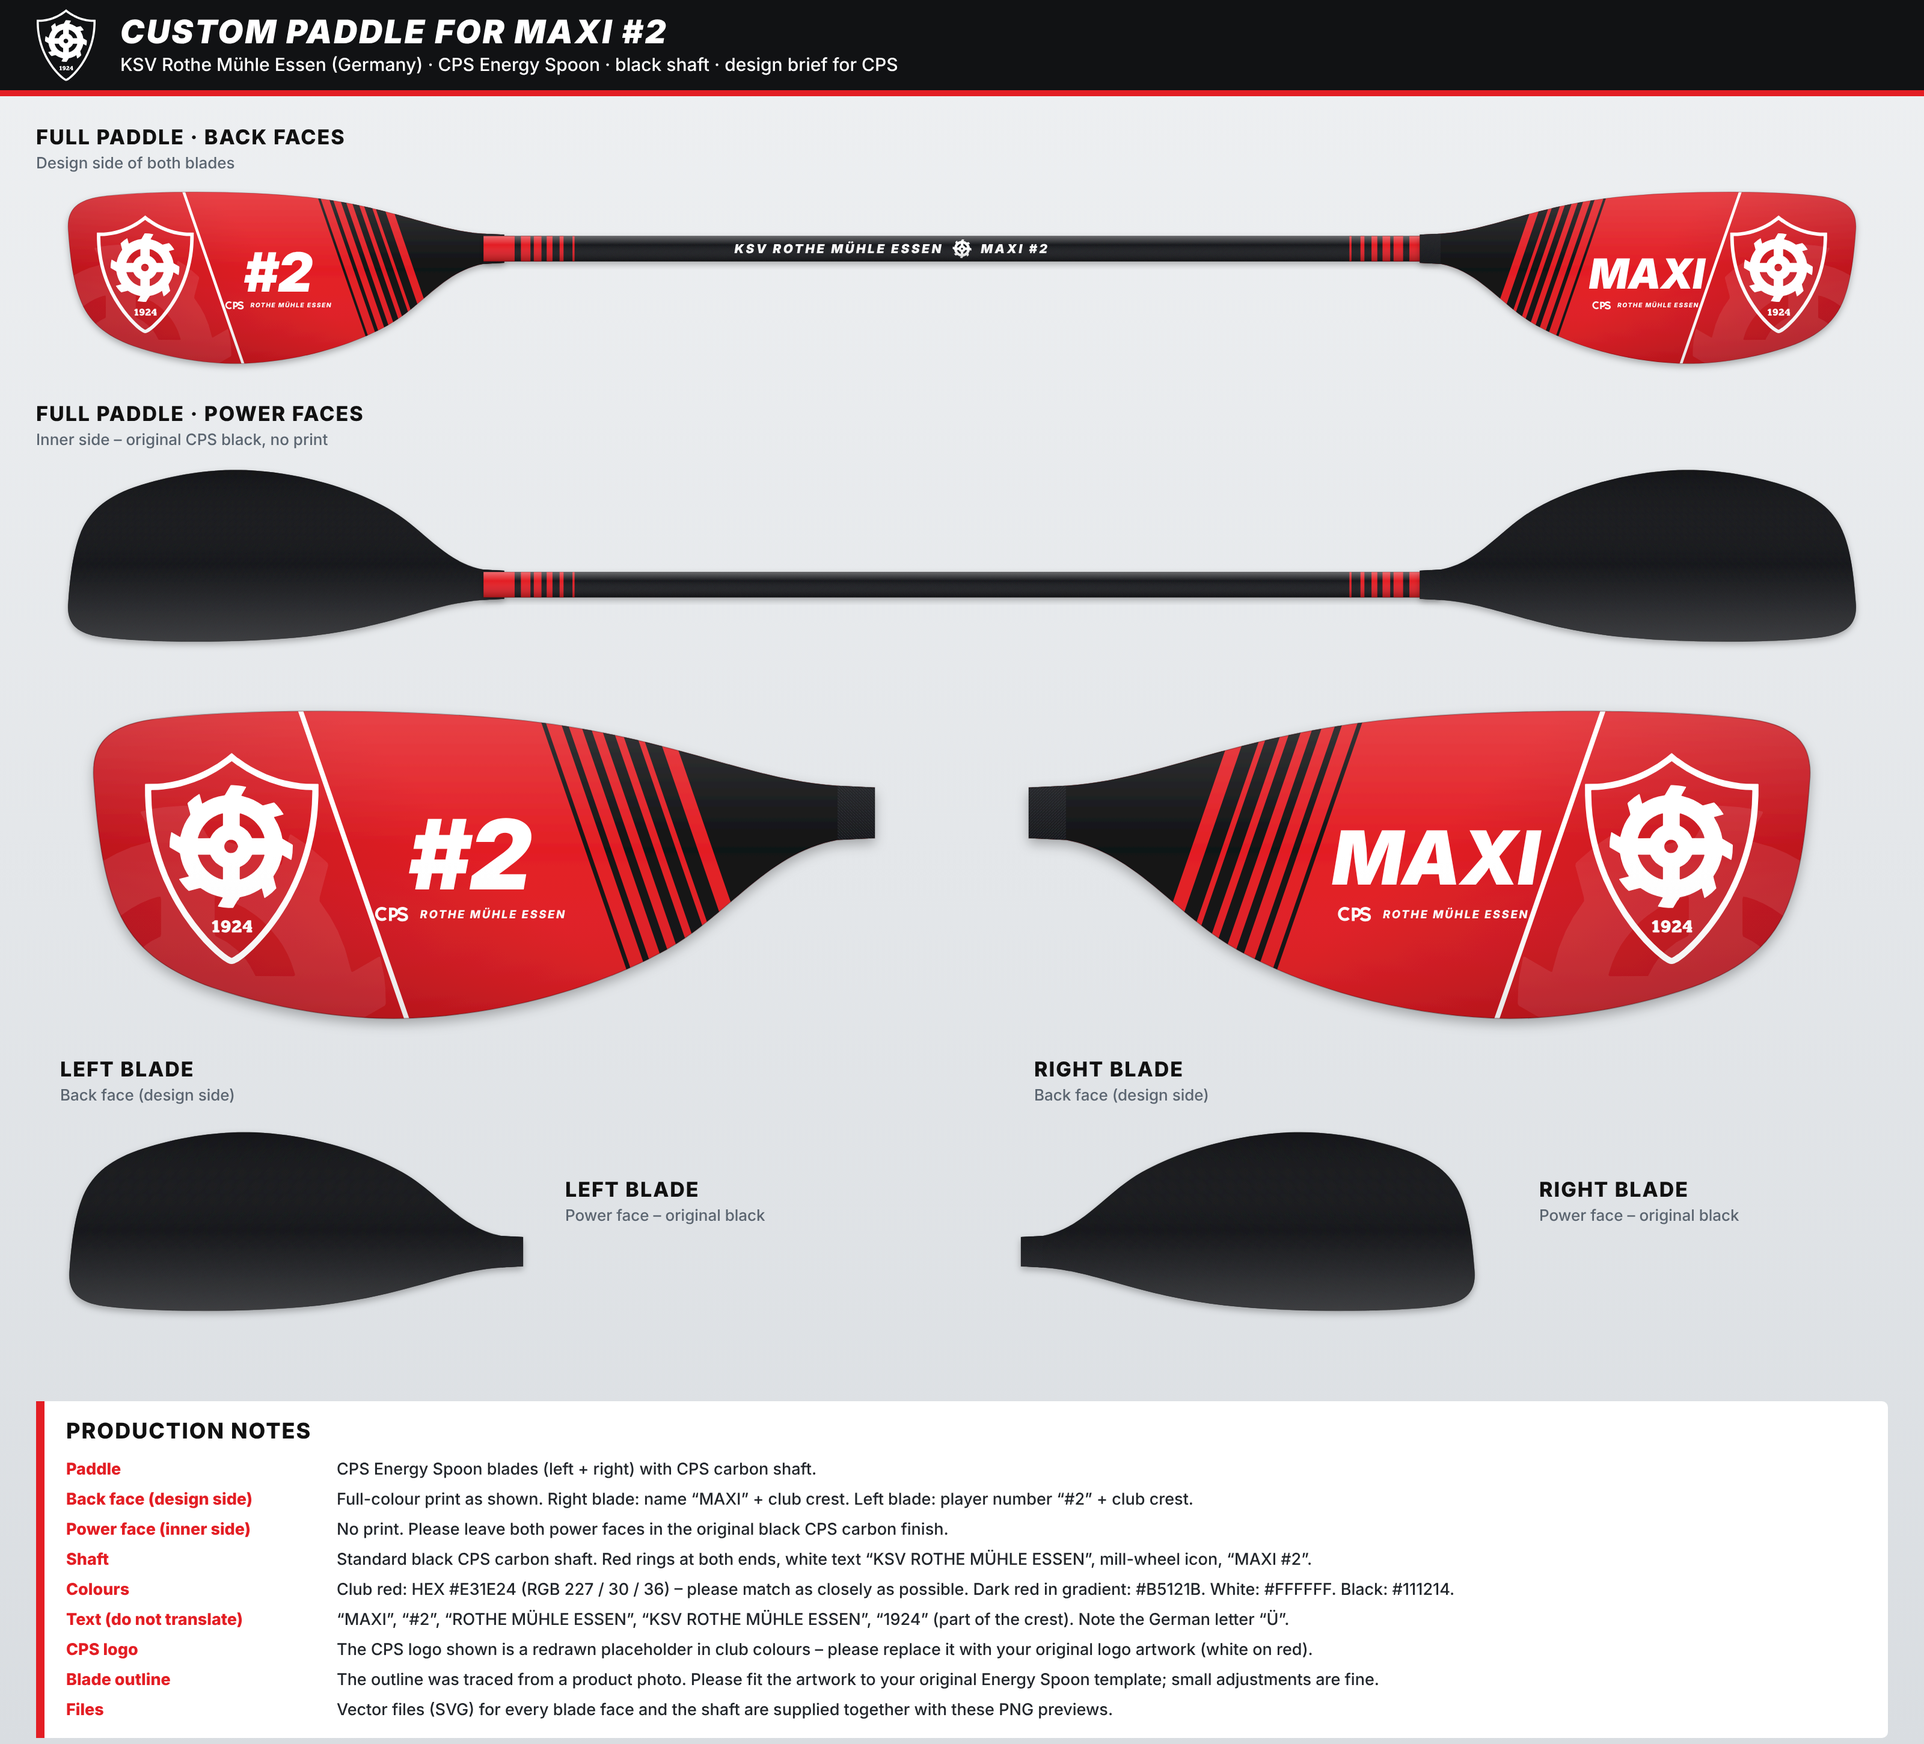
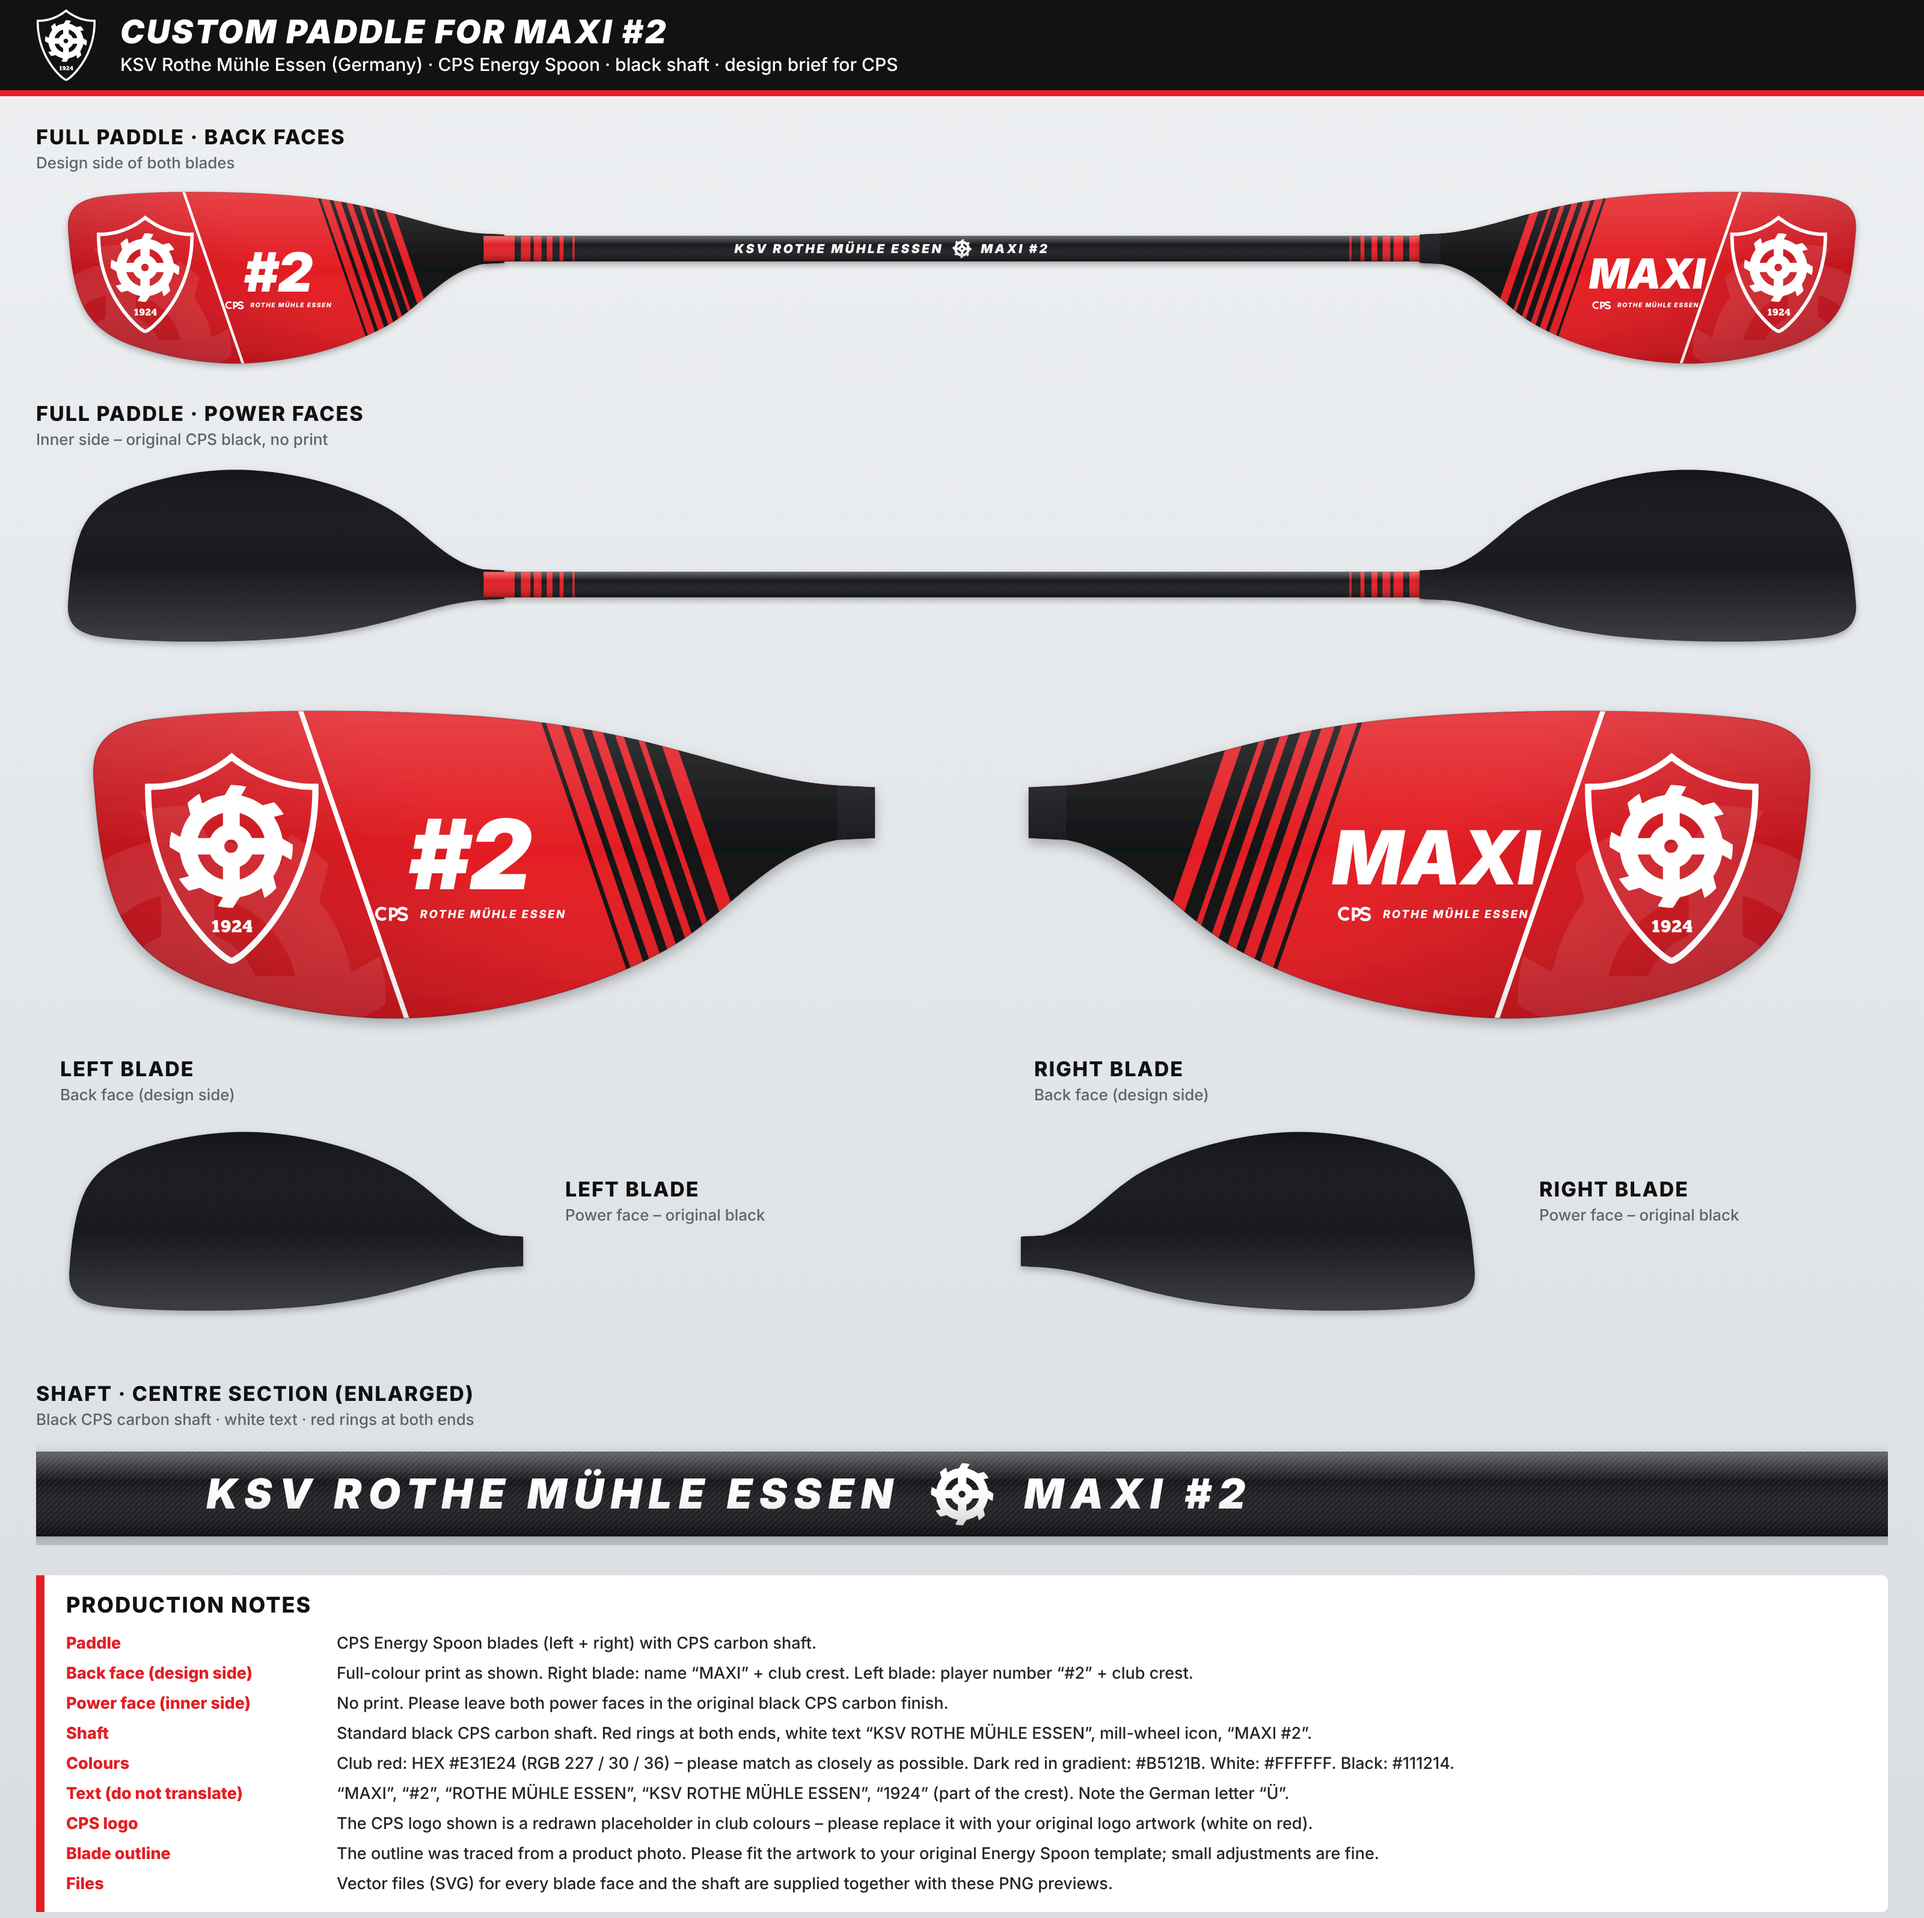
Paddle design: add large English design sheet with shaft detail
Claude-Session: https://claude.ai/code/session_01DX4xT44m4txGG7n6gz6xyQ

diff --git a/maxi-paddel/build/design.js b/maxi-paddel/build/design.js
@@ -180,7 +180,7 @@ function paddle(variant, face) {
   return `<g>${L}<g transform="translate(${xNeckL} ${yShaft})" filter="url(#sh)">${shaftGroup(variant, face)}</g><g transform="translate(${xNeckL + SL + 40 - OX} 0)">${Rb}</g></g>`;
 }
 function boardSVG(variant) {
-  const W = 3200, H = 2900, total = CW - OX + 40 + SL + 40 - OX + CW, s = (W - 120) / total;
+  const W = 3200, H = 3190, total = CW - OX + 40 + SL + 40 - OX + CW, s = (W - 120) / total;
   const tile = (side, face, x, y) => `<g transform="translate(${x} ${y}) scale(0.62)">${bladeGroup(variant, side, face)}</g>` + label(x + 40, y + 660, `${NAME[side]}`, NAME[face]);
   return `<svg xmlns="http://www.w3.org/2000/svg" width="${W}" height="${H}" viewBox="0 0 ${W} ${H}">${defs}
   <rect width="${W}" height="${H}" fill="url(#bgG)"/>
@@ -194,7 +194,9 @@ function boardSVG(variant) {
   <g transform="translate(60 750) scale(${s})">${paddle(variant, 'front')}</g>
   ${tile('L', 'back', 60, 1130)}${tile('R', 'back', 1680, 1130)}
   ${[0, 1].map((i) => `<g transform="translate(${i ? 1680 : 60} 1850) scale(0.36)">${bladeGroup(variant, i ? 'R' : 'L', 'front')}</g>` + label((i ? 1680 : 60) + 880, 1990, i ? NAME.R : NAME.L, 'Power face – original black')).join('')}
-  ${notes(60, 2330, variant)}
+  ${label(60, 2330, 'SHAFT · CENTRE SECTION (ENLARGED)', 'Black CPS carbon shaft · white text · red rings at both ends')}
+  <svg x="60" y="2400" width="3080" height="170" viewBox="${SL / 2 - 1340} -13 2680 148"><g filter="url(#sh)">${shaftGroup(variant)}</g></svg>
+  ${notes(60, 2620, variant)}
   </svg>`;
 }
 
@@ -219,6 +221,13 @@ function boardSVG(variant) {
     await page.setContent(`<html><body style="margin:0">${svg}</body></html>`);
     await page.evaluate(() => document.fonts.ready);
     await page.screenshot({ path: path.join(OUT, dir, name + '.png') });
+    if (name.startsWith('00')) {
+      const big = await browser.newPage({ deviceScaleFactor: 2, viewport: { width: +w, height: +h } });
+      await big.setContent(`<html><body style="margin:0">${svg}</body></html>`);
+      await big.evaluate(() => document.fonts.ready);
+      await big.screenshot({ path: path.join(OUT, dir, 'Maxi-Paddle-Design-Sheet-EN.png') });
+      await big.close();
+    }
   }
   await browser.close();
   console.log('rendered', jobs.length);
